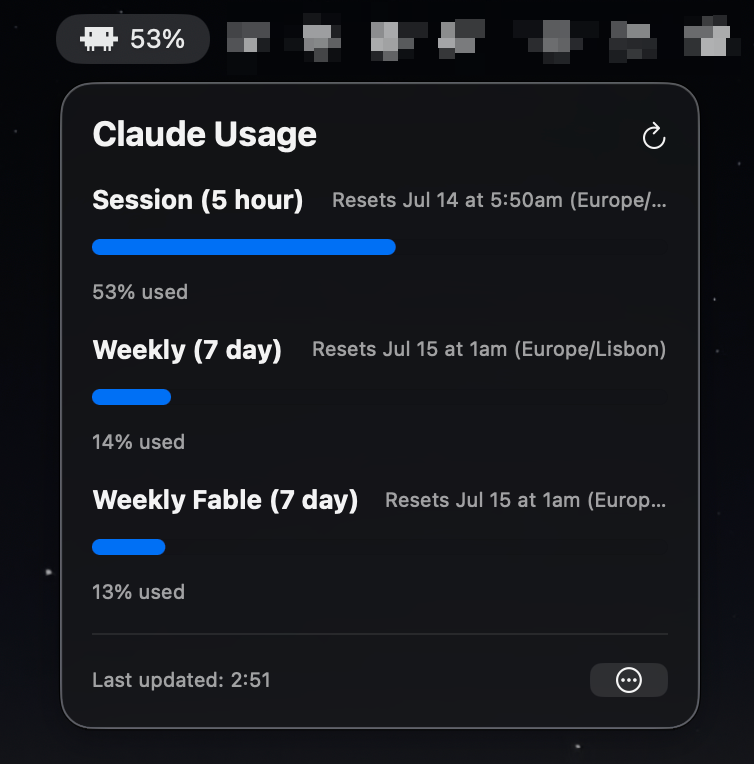
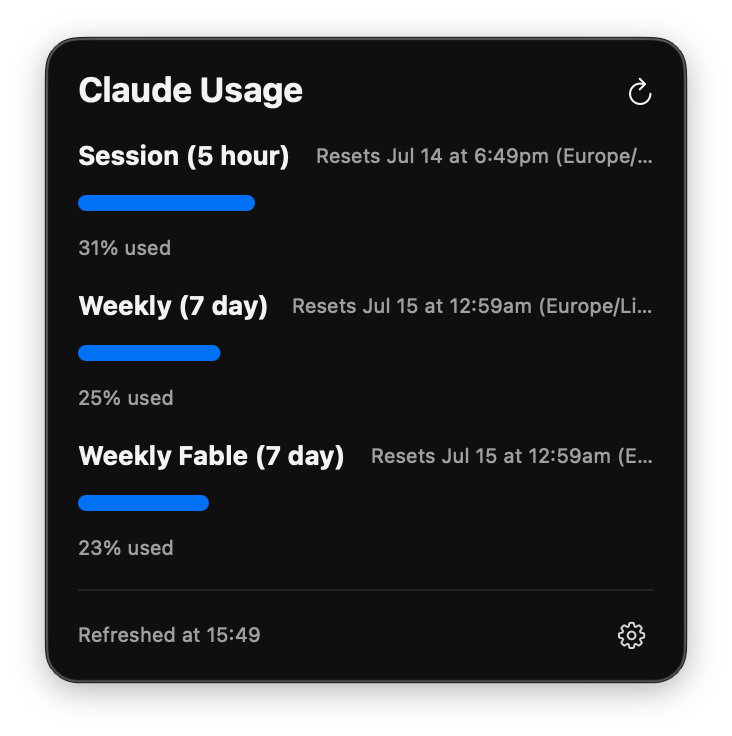
Update README screenshots to current UI (v1.4.x)
Old ones predated the mascot icon, 'Refreshed at' label, and gear
menu redesign. Added a menu bar icon crop too.

diff --git a/README.md b/README.md
@@ -32,6 +32,9 @@ No cookies, no OAuth flow of its own, no server. It shells out to the `claude` b
 - **Clear failure state** — if `claude` isn't installed, isn't logged in, or there's no connection, the popover shows a retry screen instead of spinning forever, and the menu bar icon swaps to a warning triangle.
 
 <p align="center">
+  <img src="assets/menubar-icon.png" alt="Claude Usage menu bar icon" height="24">
+</p>
+<p align="center">
   <img src="assets/screenshot-dark.png" alt="Claude Usage popover, dark mode" width="280">
   <img src="assets/screenshot-light.png" alt="Claude Usage popover, light mode" width="280">
 </p>